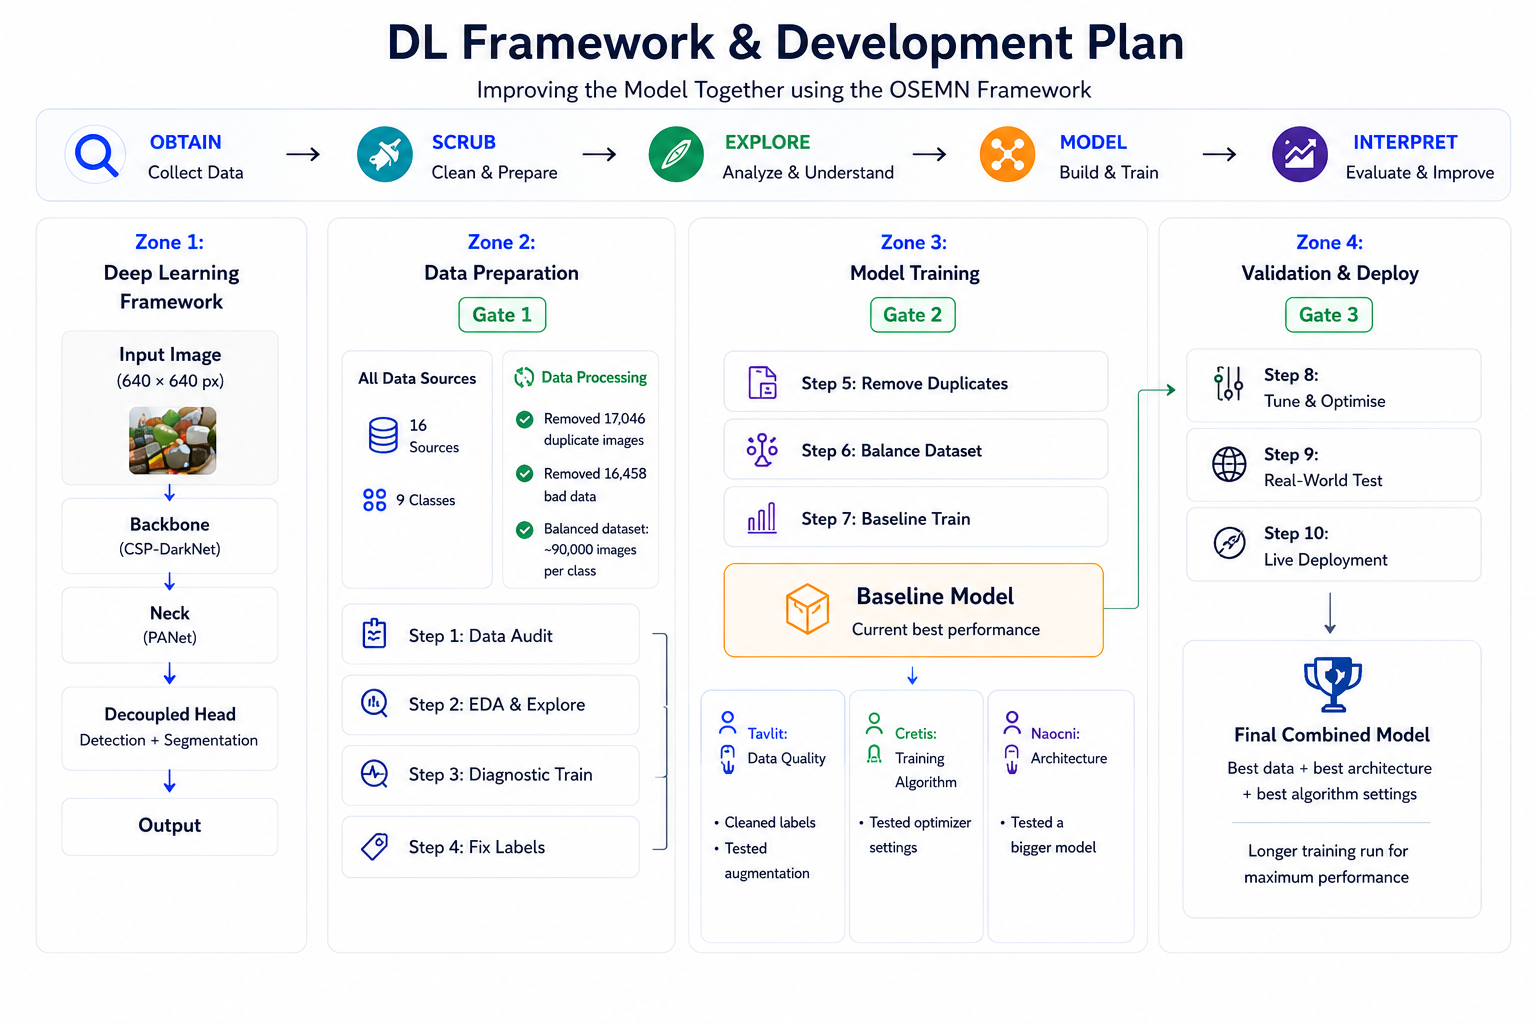
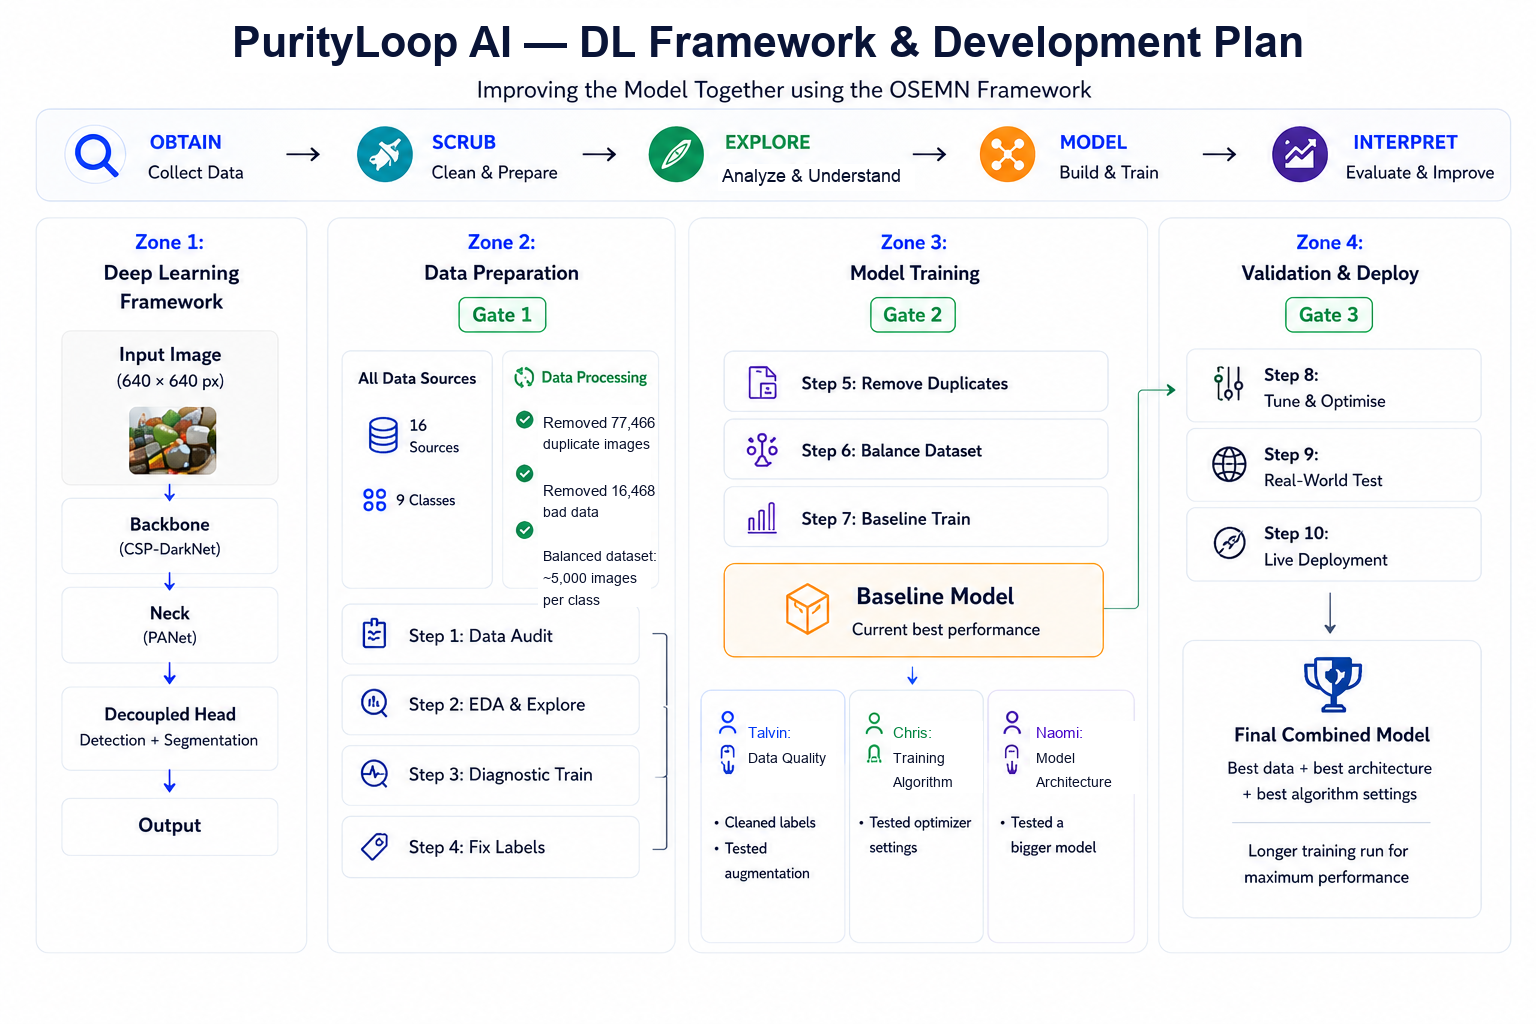
Correct methodology framework asset

diff --git a/public/css/style.css b/public/css/style.css
@@ -13988,59 +13988,6 @@ body.audit-review-modal-open { overflow: hidden; }
   line-height: 1.2;
 }
 
-.methodology-target-badge {
-  width: fit-content;
-  display: inline-flex;
-  align-items: center;
-  gap: 8px;
-  margin-top: 8px;
-  padding: 8px 12px;
-  border: 1px solid color-mix(in srgb, var(--primary) 40%, var(--border));
-  border-radius: 6px;
-  background: color-mix(in srgb, var(--primary) 10%, var(--surface));
-  color: var(--primary);
-  font-size: 0.72rem;
-  font-weight: 900;
-  letter-spacing: 0.08em;
-}
-
-.methodology-target-list {
-  display: grid;
-  gap: 8px;
-  margin: 16px 0 0;
-}
-
-.methodology-routing-list {
-  margin-top: 6px;
-}
-
-.methodology-target-list div {
-  display: grid;
-  grid-template-columns: minmax(0, 1fr) auto;
-  gap: 10px;
-  align-items: center;
-  min-width: 0;
-  padding: 9px 10px;
-  border: 1px solid color-mix(in srgb, var(--primary) 22%, var(--border));
-  border-radius: 8px;
-  background: color-mix(in srgb, var(--primary) 7%, var(--surface));
-}
-
-.methodology-target-list dt {
-  color: var(--text-secondary);
-  font-size: 0.72rem;
-  font-weight: 900;
-  line-height: 1.2;
-}
-
-.methodology-target-list dd {
-  margin: 0;
-  color: var(--primary);
-  font-size: 0.82rem;
-  font-weight: 950;
-  white-space: nowrap;
-}
-
 .methodology-evidence {
   min-width: 0;
   display: grid;
@@ -14341,7 +14288,6 @@ body.audit-review-modal-open { overflow: hidden; }
 @media (max-width: 640px) {
   .capstone-research-grid,
   .measured-performance-grid,
-  .methodology-target-list,
   .measured-model-facts,
   .measured-insight-grid {
     grid-template-columns: 1fr;

diff --git a/app/page.tsx b/app/page.tsx
@@ -300,18 +300,6 @@ const html = `
               <span class="methodology-index">04 / Validation Criteria</span>
               <h3>Model Acceptance Targets &amp; Routing Rules</h3>
               <p>Proposed performance targets and operational confidence thresholds. These values are validation criteria, not final measured results.</p>
-              <span class="methodology-target-badge">TARGETS — NOT FINAL RESULTS</span>
-              <dl class="methodology-target-list" aria-label="Validation target values">
-                <div><dt>mAP@0.5</dt><dd>&ge; 0.85</dd></div>
-                <div><dt>mAP@0.5:0.95</dt><dd>&ge; 0.70</dd></div>
-                <div><dt>Battery Recall</dt><dd>&ge; 80%</dd></div>
-                <div><dt>Inference Speed</dt><dd>&lt; 50ms</dd></div>
-              </dl>
-              <dl class="methodology-target-list methodology-routing-list" aria-label="Routing rule targets">
-                <div><dt>Standard class threshold</dt><dd>&ge; 0.85</dd></div>
-                <div><dt>Battery / hazardous threshold</dt><dd>&ge; 0.90</dd></div>
-                <div><dt>Below threshold</dt><dd>Human review</dd></div>
-              </dl>
             </div>
             <div class="methodology-evidence">
               <figure class="methodology-figure">
